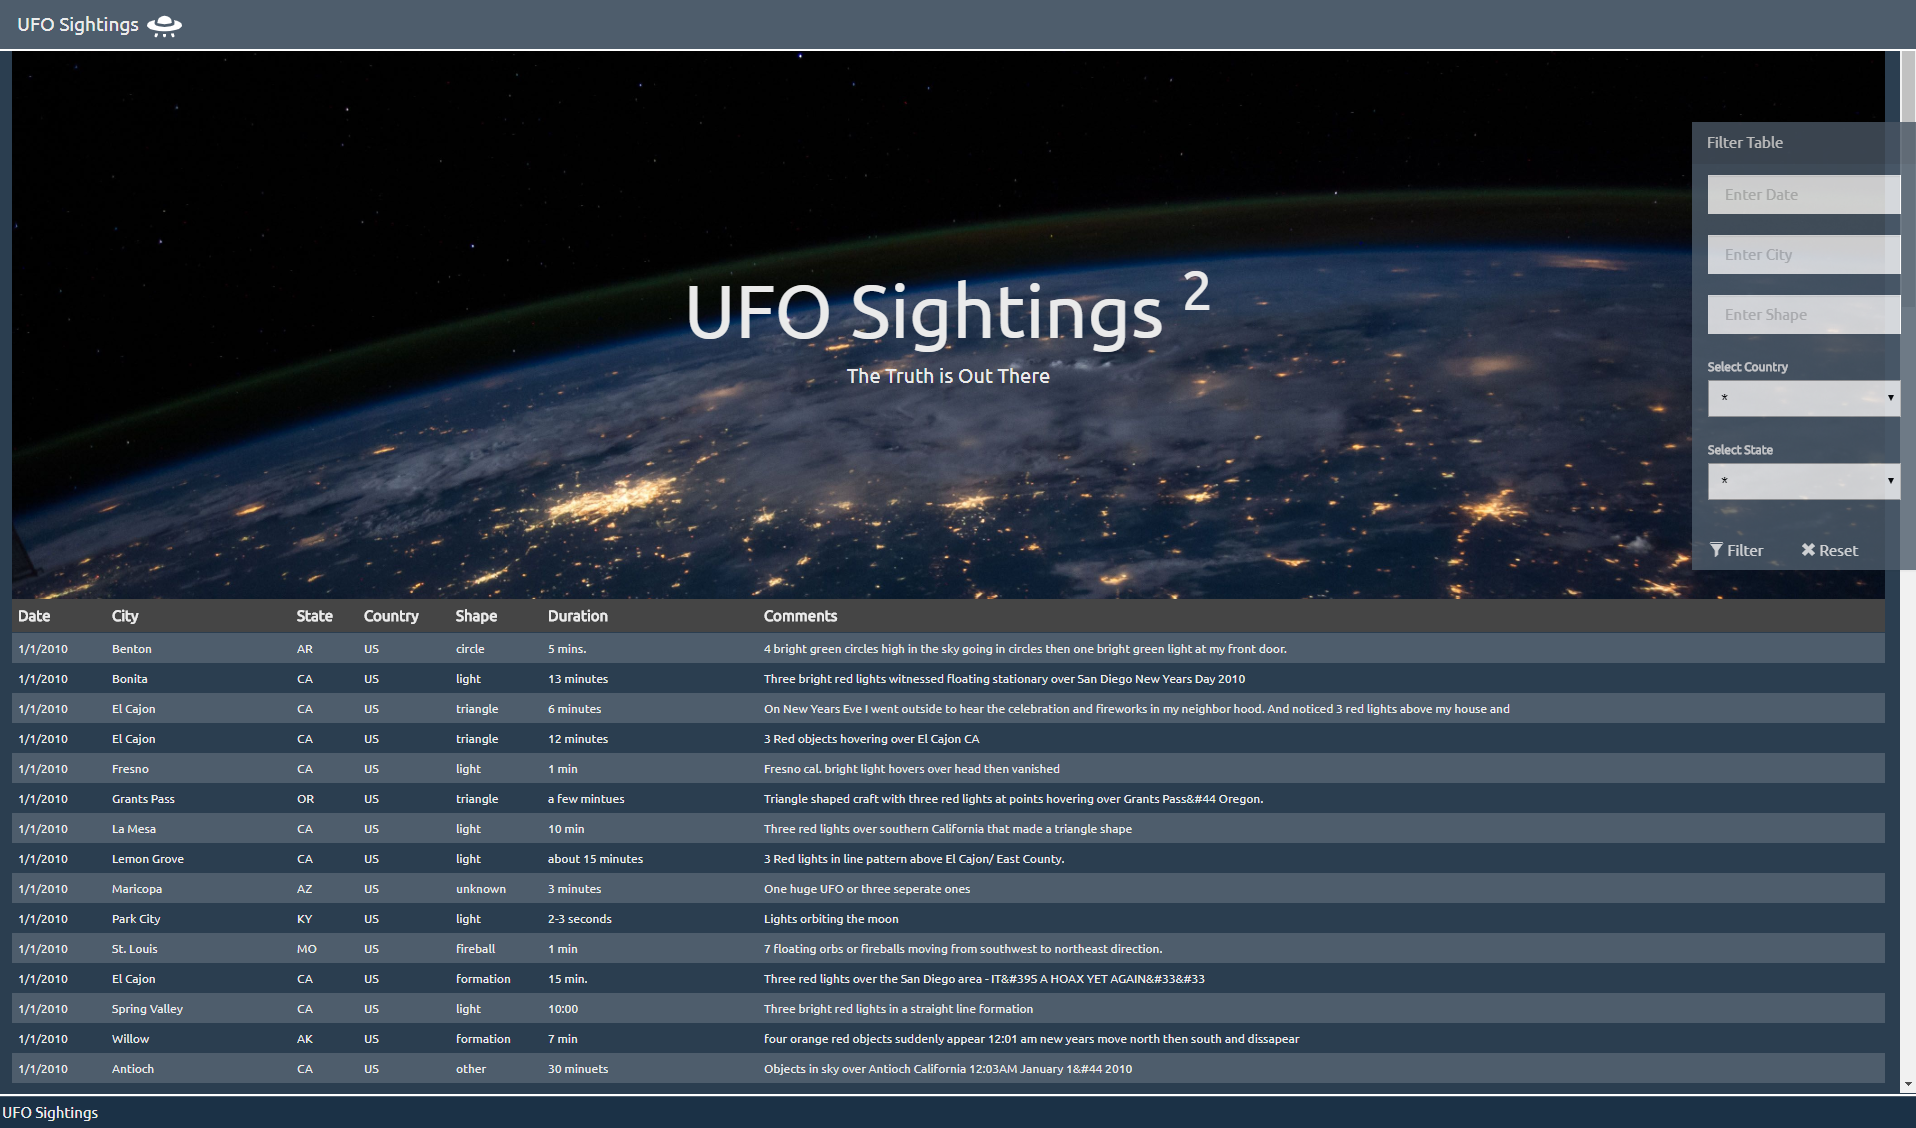
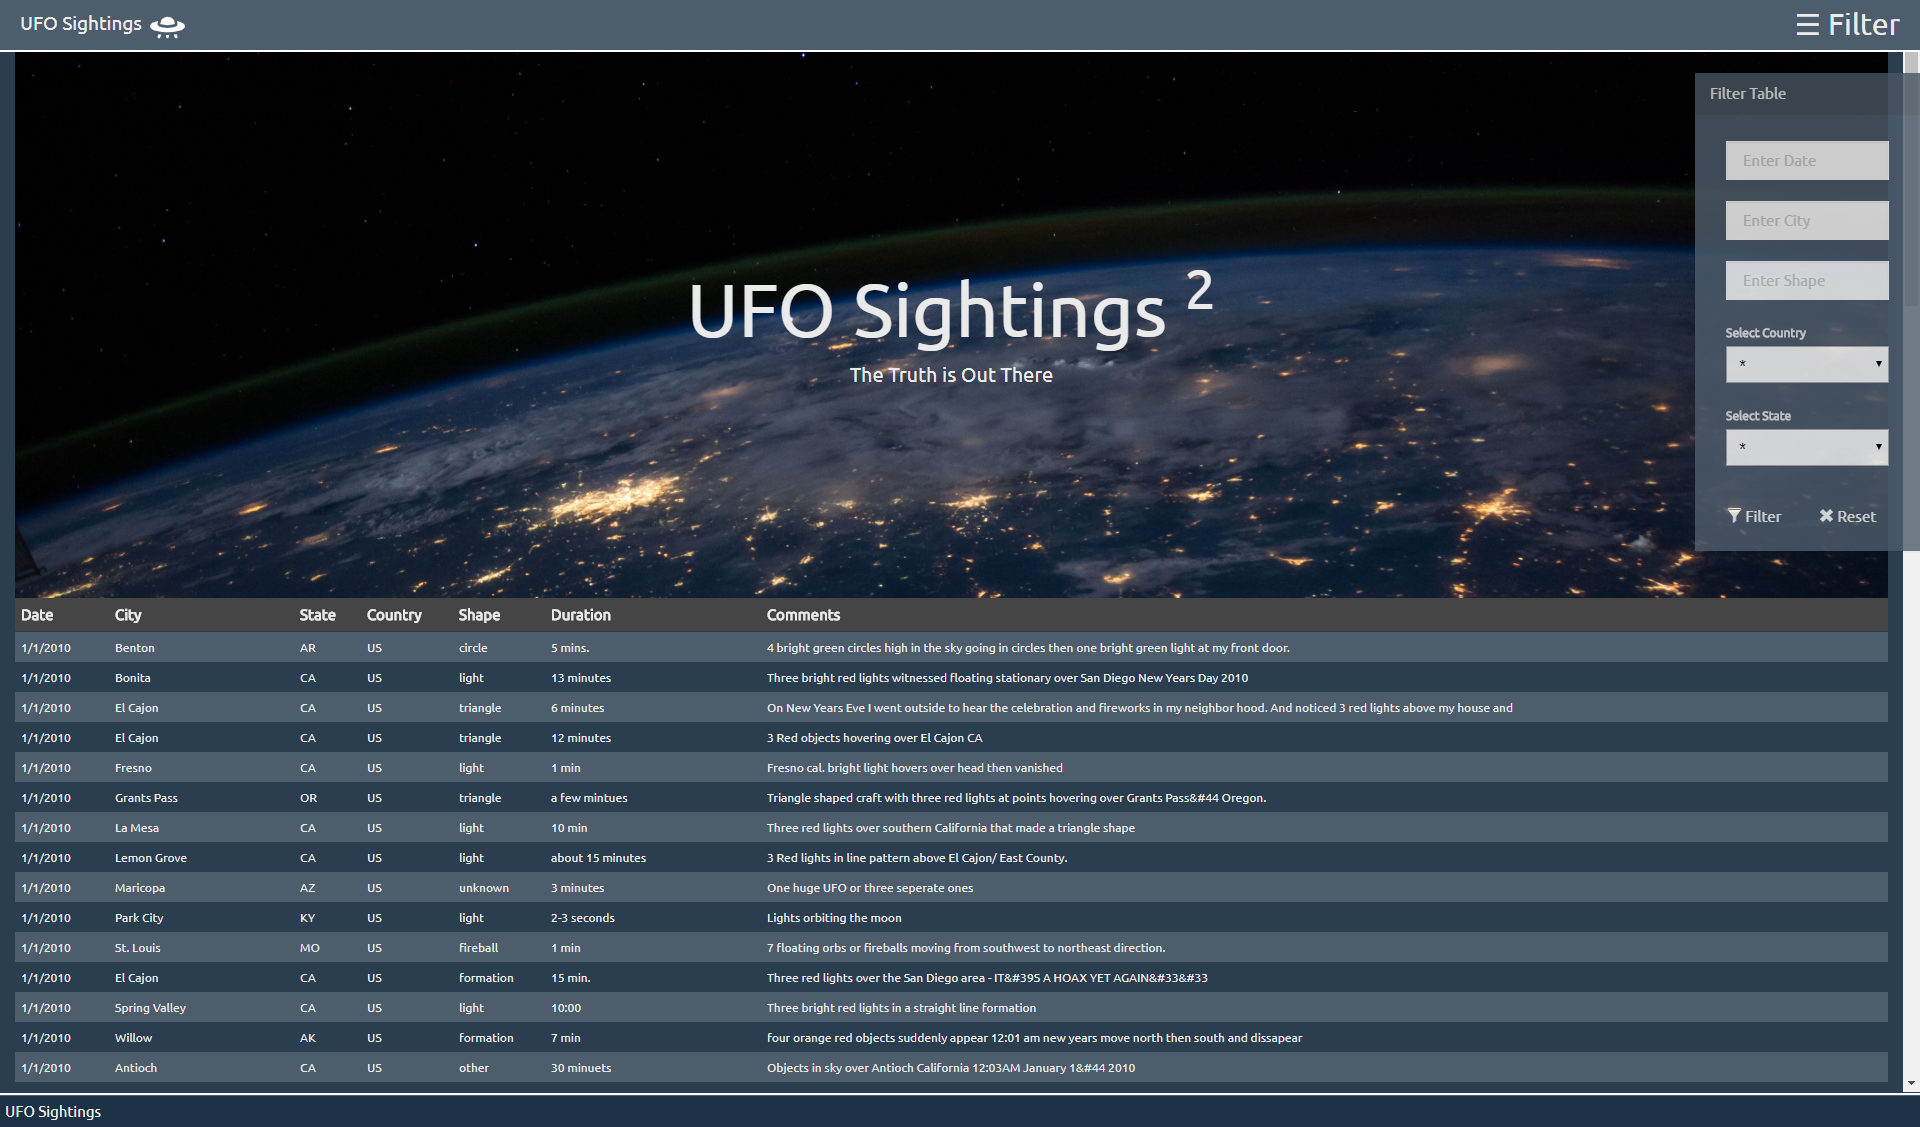
cleanup

diff --git a/UFO-level-2/static/css/style.css b/UFO-level-2/static/css/style.css
@@ -162,3 +162,62 @@ thead tr:nth-child(1) th{
 	position: -o-sticky;
 	position: sticky;
 }
+
+#openSideMenu{
+	float: right;
+	font-size:30px;
+	cursor:pointer;
+}	
+
+.mySidenavMin{
+	width: 0;
+}	
+
+/** ----------------------------------- 
+
+Extra bonus - Side Nav from 
+https://www.w3schools.com/howto/tryit.asp?filename=tryhow_js_sidenav
+
+----------------------------------- */
+
+.sidenav {
+  height: 100%;
+  width: 0;
+  position: fixed;
+  z-index: 1;
+  top: 0;
+  left: 0;
+  background-color: #111;
+  overflow-x: hidden;
+  transition: 0.5s;
+  padding-top: 60px;
+}
+
+.sidenav a {
+  padding: 8px 8px 8px 32px;
+  text-decoration: none;
+  font-size: 25px;
+  color: #818181;
+  display: block;
+  transition: 0.3s;
+}
+
+.sidenav a:hover {
+  color: #f1f1f1;
+}
+
+.sidenav .closebtn {
+  position: absolute;
+  top: 0;
+  right: 25px;
+  font-size: 36px;
+  margin-left: 50px;
+}
+
+@media screen and (max-height: 450px) {
+  .sidenav {padding-top: 15px;}
+  .sidenav a {font-size: 18px;}
+}
+
+
+

diff --git a/UFO-level-2/index.html b/UFO-level-2/index.html
@@ -18,6 +18,7 @@
             <img class="nav-ufo" src="static/images/ufo.svg">
           </a>
         </div>
+		  <div id="openSideMenu" onclick="openNav()">&#9776; Filter</div>
       </div>
     </nav>
     <div id="tbl-container" class="container-fluid">
@@ -47,13 +48,13 @@
 		  </div>
     </div>
     <!-- filter pannel -->
-	<aside class="filters">
+	<aside id="mySidenav" class="mySidenavMin" class="filters">
 		<div class="panel panel-default">
 		  <div class="panel-heading">Filter Table</div>
 		  <div class="panel-body">
 			<form>
 			  <div class="form-group">
-				<ul class="list-group" id="filters">
+				<ul id="filters" class="list-group">
 				  <li class="filter list-group-item">
 					<input class="form-control" id="f_datetime" type="text" placeholder="Enter Date" title="Insert any part of date for search">
 				  </li>

diff --git a/UFO-level-2/static/js/app.js b/UFO-level-2/static/js/app.js
@@ -96,3 +96,13 @@
 	
 })();
 
+// functions in global namespace
+function openNav() {
+	let isOpened = d3.select("#mySidenav").classed("mySidenavMin");
+	d3.select("#mySidenav").classed("mySidenavMin", ! isOpened);
+}
+
+function closeNav() {
+  document.getElementById("mySidenav").style.width = "0";
+}
+

diff --git a/README.md b/README.md
@@ -4,8 +4,7 @@
 
 * UFO-level-1 solution provided
 * UFO-level-2 solution provided
- 
- 
+  
 ### Page Layout has been improved:
 1) Page shows the original picture (I like it)
 2) Fix navigation bar and footer
@@ -15,15 +14,17 @@
 6) Input text capitalization is updated during table buildup
 
 ### Filter functionality:
-1) Is activated with either keyup, or by click on Filter button (this is redundant)
-2) Uses regex for string values (datetime, city, shape):
+1) Filer side menu is opened by click on Filter om the the right top corned of the page; 
+    menu is hidden by second click on the same menu; open / close is available only in UFO-level-2 
+2) Is activated with either keyup, or by click on Filter button (this is redundant)
+3) Uses regex for string values (datetime, city, shape):
 	- searches for a subtring in the corresponding field
 	- search is case sensitive
 	- user can enter regular expression
-3) Country and State dropdown are cascaded, change in Country automatically reloads States
-4) Values are combined with AND
-5) Clearing of the filter removes all values and shows all rows
-6) Table is not rebuilt after filter cleanup, display=none is used istead of removing values from DOM
+4) Country and State dropdown are cascaded, change in Country automatically reloads States
+5) Values are combined with AND
+6) Clearing of the filter removes all values and shows all rows
+7) Table is not rebuilt after filter cleanup, display=none is used istead of removing values from DOM
 
 ### The code
 * Is located in ~/static/app.js files
